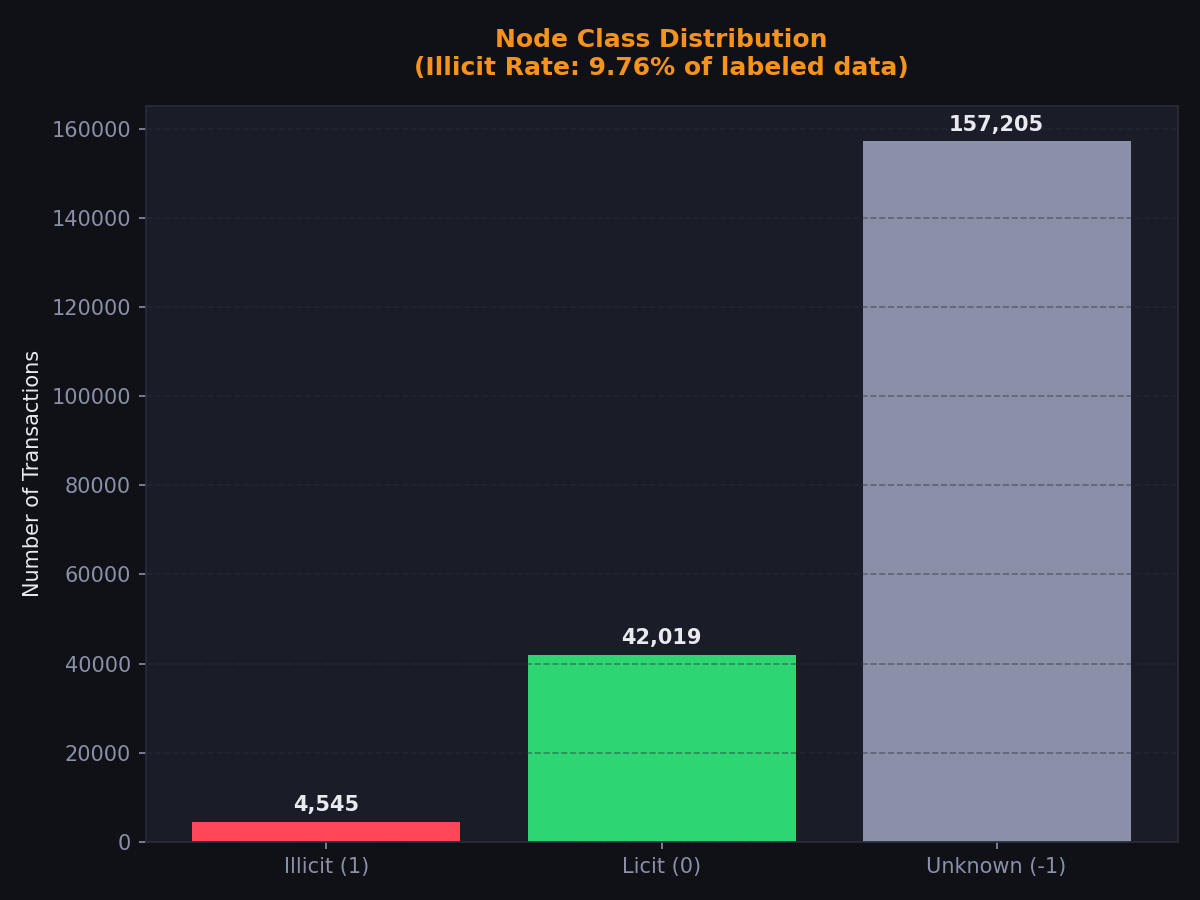
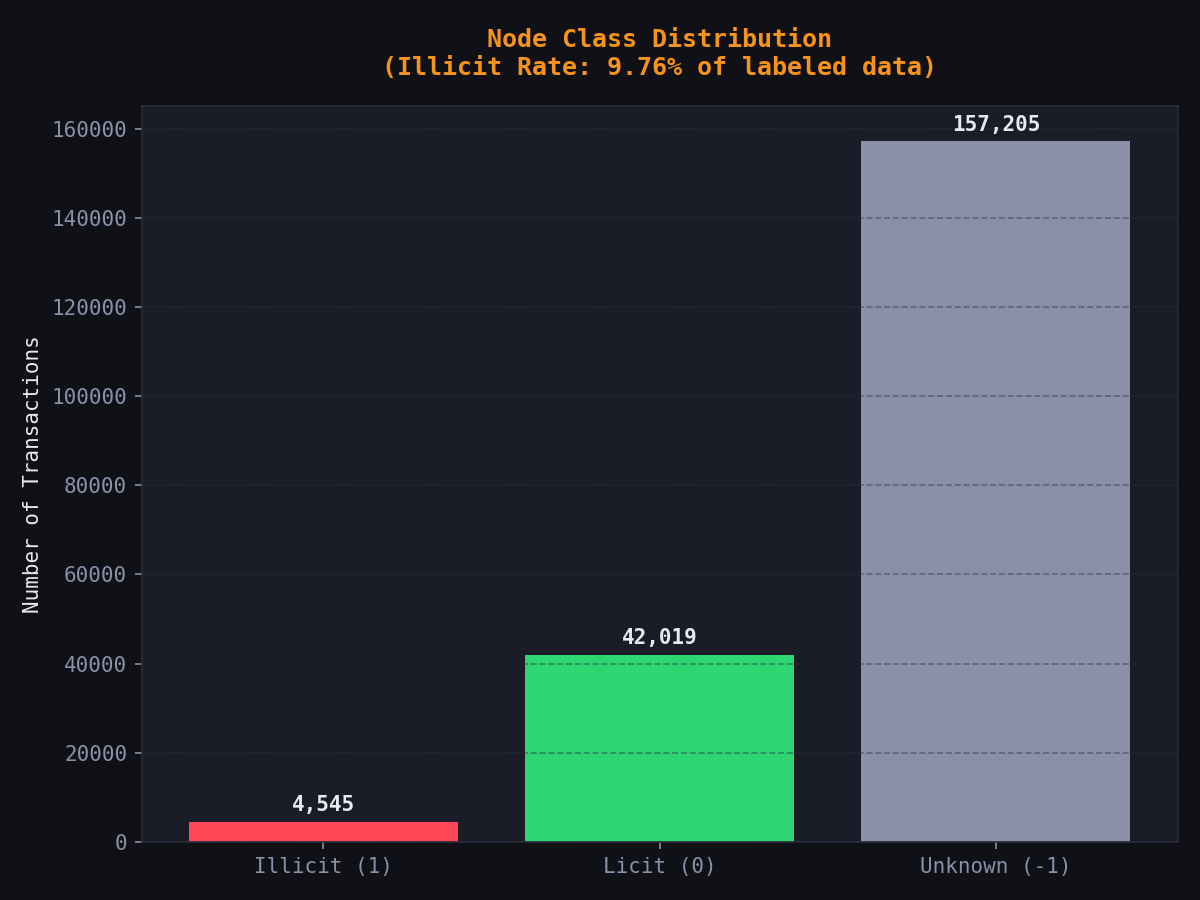
Add files via upload
Made changes to:
- processor.py
- dataset.py
- engine.py
- evaluate.py
- helpers.py
- cli.py
- visualizer.py
- main.py

diff --git a/main.py b/main.py
@@ -6,8 +6,22 @@ import torch.nn.functional as F
 from torch_geometric.data import Data
 from src.dataset import EllipticDataset
 from src.utils.sanity_check import perform_sanity_check
-from src.utils.cli import select_model_from_menu, select_loss_from_menu, ask_run_again, run_single_experiment
-from src.utils.visualizer import visualize_graph
+# OLD CODE COMMENTED OUT BELOW:
+# from src.utils.cli import select_model_from_menu, select_loss_from_menu, ask_run_again, run_single_experiment
+from src.utils.cli import (
+    select_model_from_menu,
+    select_loss_from_menu,
+    ask_run_again,
+    run_single_experiment,
+    select_feature_mode_from_menu,
+    select_split_mode_from_menu,
+    select_unknown_mode_from_menu,
+    select_optimizer_from_menu,
+    select_learning_rate_from_menu,
+)
+# OLD CODE COMMENTED OUT BELOW:
+# from src.utils.visualizer import visualize_graph
+from src.utils.visualizer import visualize_graph, visualize_multiple_graph_samples
 from src.utils.reproducibility import seed_everything
 from src.baseline import run_baseline
 from src.utils.helpers import save_metrics
@@ -18,39 +32,102 @@ def main():
     seed_everything(42)
 
     print("🚀 Starting the pipeline...")
-    dataset = EllipticDataset()
-    raw_data = dataset.data
-    data = Data(**raw_data) if isinstance(raw_data, dict) else raw_data
 
-    if not hasattr(data, "train_mask") or not hasattr(data, "val_mask") or not hasattr(data, "test_mask"):
-        raise ValueError("Data object is missing train/val/test masks. Check processor.py.")
+    # OLD CODE COMMENTED OUT BELOW:
+    # dataset = EllipticDataset()
+    # raw_data = dataset.data
+    # data = Data(**raw_data) if isinstance(raw_data, dict) else raw_data
+    #
+    # if not hasattr(data, "train_mask") or not hasattr(data, "val_mask") or not hasattr(data, "test_mask"):
+    #     raise ValueError("Data object is missing train/val/test masks. Check processor.py.")
+    #
+    # run_comprehensive_eda(data, output_dir="img/eda")
+    # perform_sanity_check(data)
+    # visualize_graph(data, output_dir="img", num_nodes=200)
+    #
+    # run_baseline()
+    #
+    # print(f"Train labeled nodes: {int(data.train_mask.sum())}")
+    # print(f"Val labeled nodes:   {int(data.val_mask.sum())}")
+    # print(f"Test labeled nodes:  {int(data.test_mask.sum())}")
+    # print(f"Unknown nodes:       {int((data.y == -1).sum())}")
+    #
+    # device = torch.device('cuda' if torch.cuda.is_available() else 'cpu')
+    # data = data.to(device)
+    #
+    # session_results = []
+    # run_id = 1
+    #
+    # while True:
+    #     model_name = select_model_from_menu()
+    #     loss_name = select_loss_from_menu()
+    #
+    #     experiment_result = run_single_experiment(
+    #         data=data,
+    #         device=device,
+    #         model_name=model_name,
+    #         loss_name=loss_name,
+    #         run_id=run_id
+    #     )
+    #
+    #     session_results.append(experiment_result)
+    #     run_id += 1
+    #
+    #     if not ask_run_again():
+    #         break
 
-    run_comprehensive_eda(data, output_dir="img/eda")
-    perform_sanity_check(data)
-    visualize_graph(data, output_dir="img", num_nodes=200)
-
-    run_baseline()       
-
-    print(f"Train labeled nodes: {int(data.train_mask.sum())}")
-    print(f"Val labeled nodes:   {int(data.val_mask.sum())}")
-    print(f"Test labeled nodes:  {int(data.test_mask.sum())}")
-    print(f"Unknown nodes:       {int((data.y == -1).sum())}")
-
-    device = torch.device('cuda' if torch.cuda.is_available() else 'cpu')
-    data = data.to(device)
+    # NEW CODE =====================================================
+    run_baseline()
 
     session_results = []
     run_id = 1
 
     while True:
+        feature_mode = select_feature_mode_from_menu()
+        split_mode = select_split_mode_from_menu()
+        include_unknown_class = select_unknown_mode_from_menu()
         model_name = select_model_from_menu()
         loss_name = select_loss_from_menu()
+        optimizer_name = select_optimizer_from_menu()
+        learning_rate = select_learning_rate_from_menu()
+
+        dataset = EllipticDataset(
+            feature_mode=feature_mode,
+            split_mode=split_mode,
+            include_unknown_class=include_unknown_class
+        )
+        raw_data = dataset.data
+        data = Data(**raw_data) if isinstance(raw_data, dict) else raw_data
+
+        if not hasattr(data, "train_mask") or not hasattr(data, "val_mask") or not hasattr(data, "test_mask"):
+            raise ValueError("Data object is missing train/val/test masks. Check processor.py.")
+
+        run_comprehensive_eda(data, output_dir="img/eda")
+        perform_sanity_check(data)
+        visualize_graph(data, output_dir="img", num_nodes=200)
+        visualize_multiple_graph_samples(data, output_dir="img")
+
+        print(f"Train labeled nodes: {int(data.train_mask.sum())}")
+        print(f"Val labeled nodes:   {int(data.val_mask.sum())}")
+        print(f"Test labeled nodes:  {int(data.test_mask.sum())}")
+        if include_unknown_class:
+            print(f"Unknown nodes:       {int((data.y == 2).sum())}")
+        else:
+            print(f"Unknown nodes:       {int((data.y == -1).sum())}")
+        print(f"Feature mode:        {feature_mode}")
+        print(f"Split mode:          {split_mode}")
+        print(f"Include unknown:     {include_unknown_class}")
+
+        device = torch.device('cuda' if torch.cuda.is_available() else 'cpu')
+        data = data.to(device)
 
         experiment_result = run_single_experiment(
             data=data,
             device=device,
             model_name=model_name,
             loss_name=loss_name,
+            optimizer_name=optimizer_name,
+            learning_rate=learning_rate,
             run_id=run_id
         )
 
@@ -59,6 +136,7 @@ def main():
 
         if not ask_run_again():
             break
+    # =============================================================
 
     save_metrics(session_results, "experiment_session_summary.json")
 
